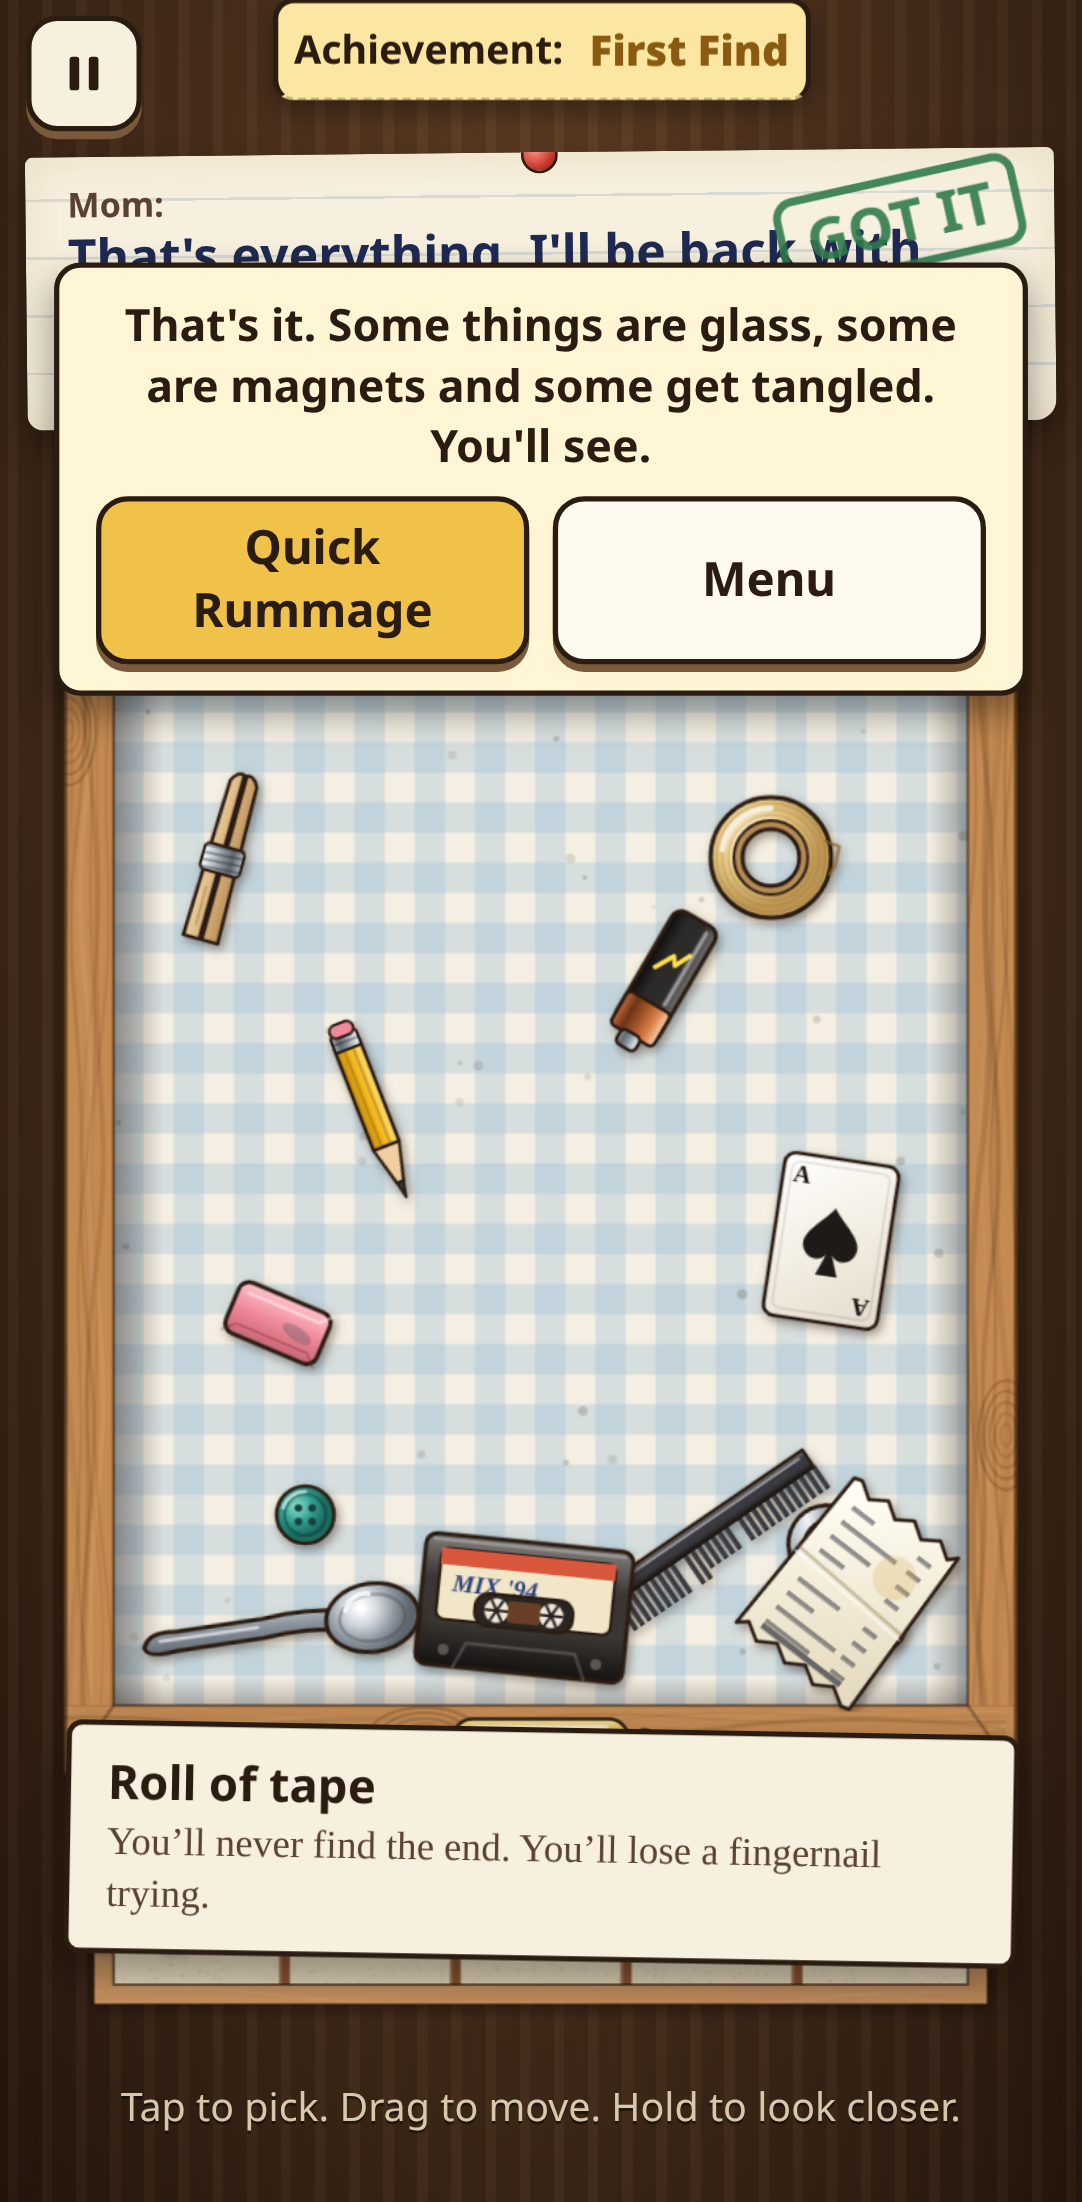
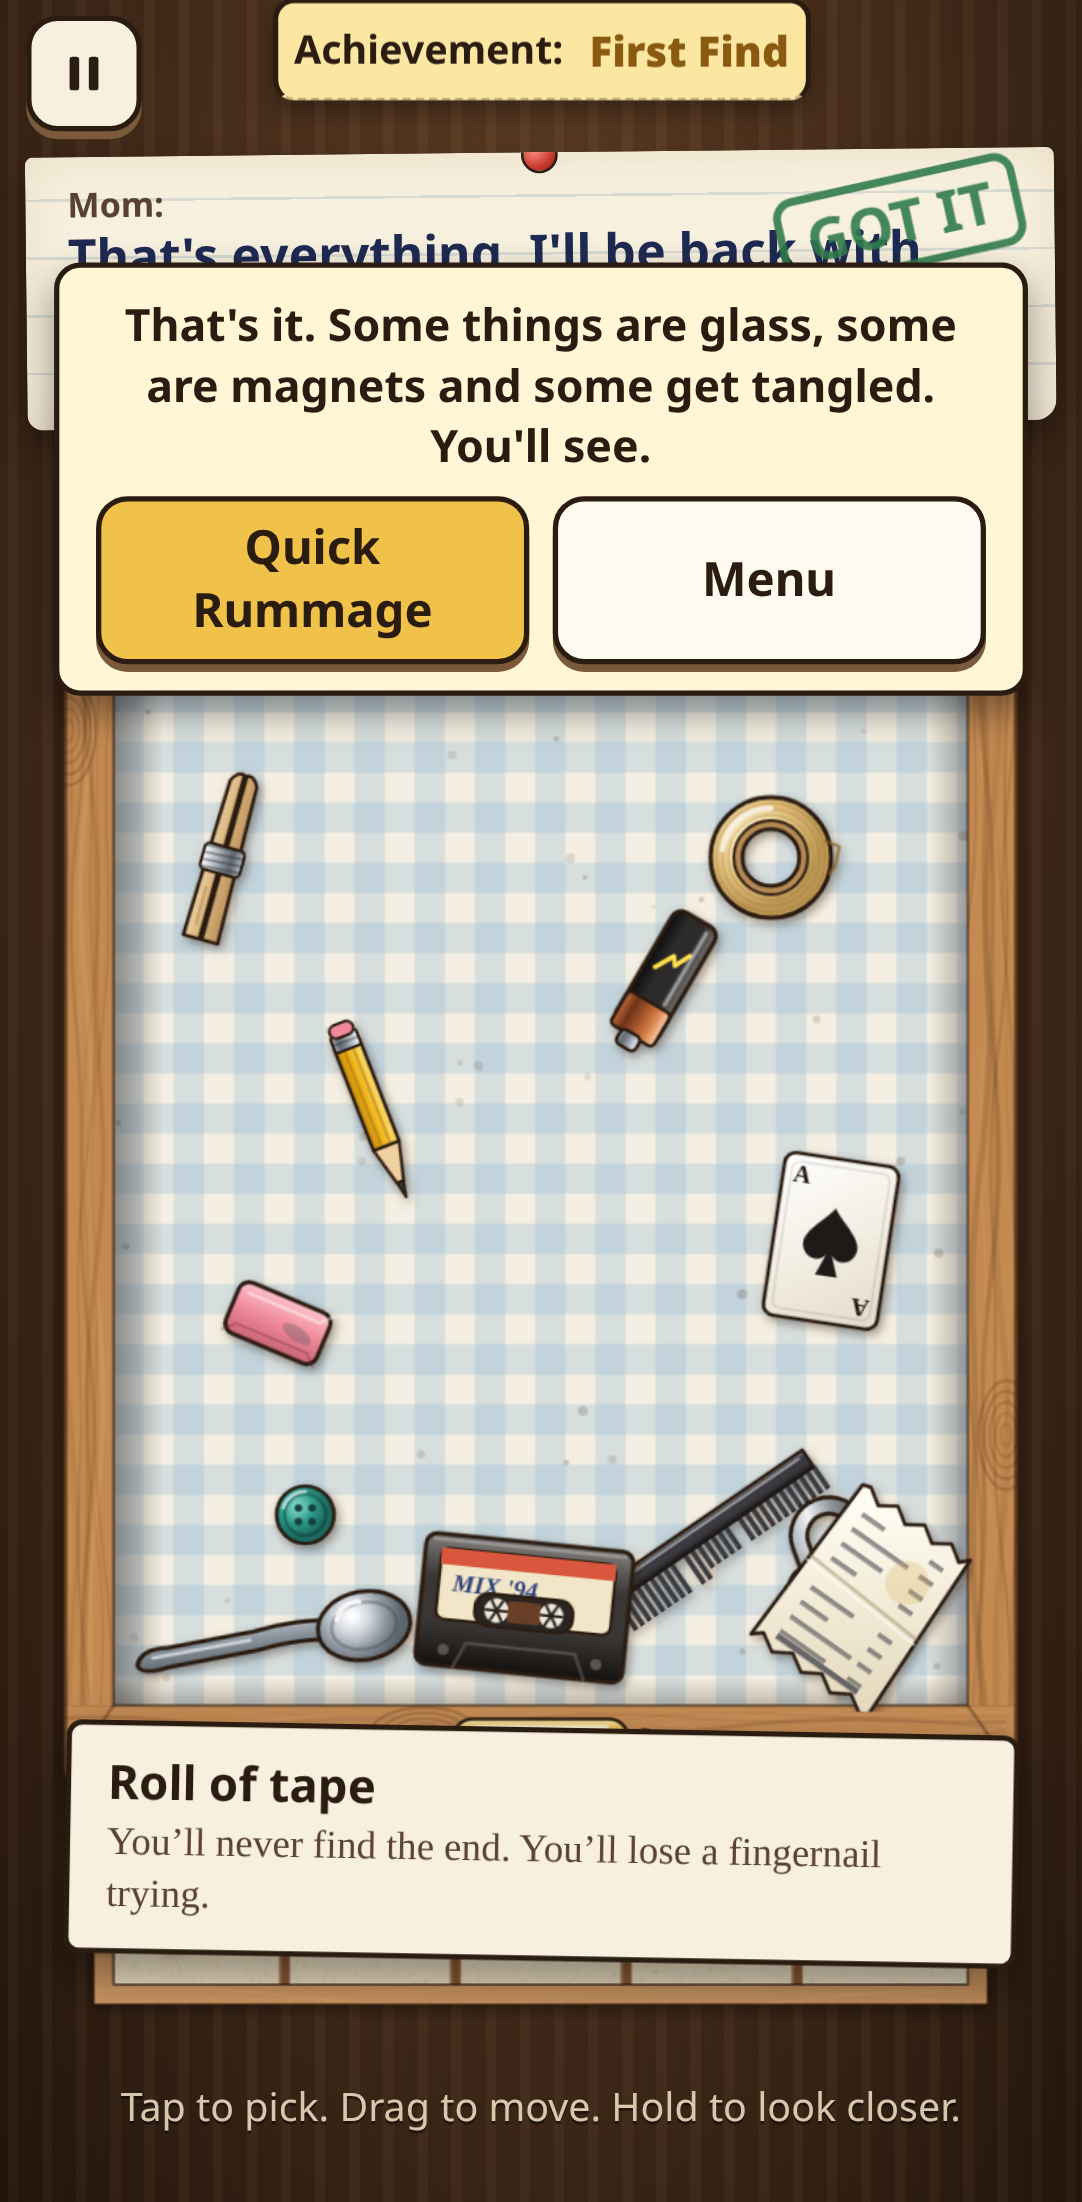
Stacking test: raise objects before grabbing

Changed region(s): [[0.671, 0.6485, 0.915, 0.8029], [0.122, 0.7103, 0.3965, 0.772]]

diff --git a/tests/test_core.py b/tests/test_core.py
@@ -86,7 +86,7 @@ async def main():
     t.chk('collision: a sliding object nudges what it runs into',r['moved']>4,r)
     await E("JD.start('quick')");await pg.wait_for_timeout(900);await E("JD.M.time=999")
     # ---- stacking: drop on top
-    r=await E("""(()=>{const L=WD.live().filter(o=>!o.mag&&!o.tang&&!o.d.magnet&&!o.d.fragile);const a=L[0],b=L[1];a.x=100;a.y=150;a.r=0;b.x=230;b.y=300;b.r=0;BOT.run(.1);return {a:RD.toScreen(a.x,a.y),b:BOT.pt(b),ua:a.uid,ub:b.uid}})()""")
+    r=await E("""(()=>{const L=WD.live().filter(o=>!o.mag&&!o.tang&&!o.d.magnet&&!o.d.fragile);const a=L[0],b=L[1];a.x=100;a.y=150;a.r=0;b.x=230;b.y=300;b.r=0;WD.raise(a);WD.raise(b);BOT.run(.1);return {a:RD.toScreen(a.x,a.y),b:BOT.pt(b),ua:a.uid,ub:b.uid}})()""")
     await tc.drag(r['b'],r['a'],steps=12,end_hold=180);await pg.wait_for_timeout(500)
     z=await E(f"(()=>{{const a=WD.objs.find(o=>o.uid=={r['ua']}),b=WD.objs.find(o=>o.uid=={r['ub']});return [a.z,b.z,WD.overlap(a,b)&&WD.coverers(a).includes(b)]}})()")
     t.chk('stacking: dropped object lands on top of the other one',z[1]>z[0] and z[2],z)
